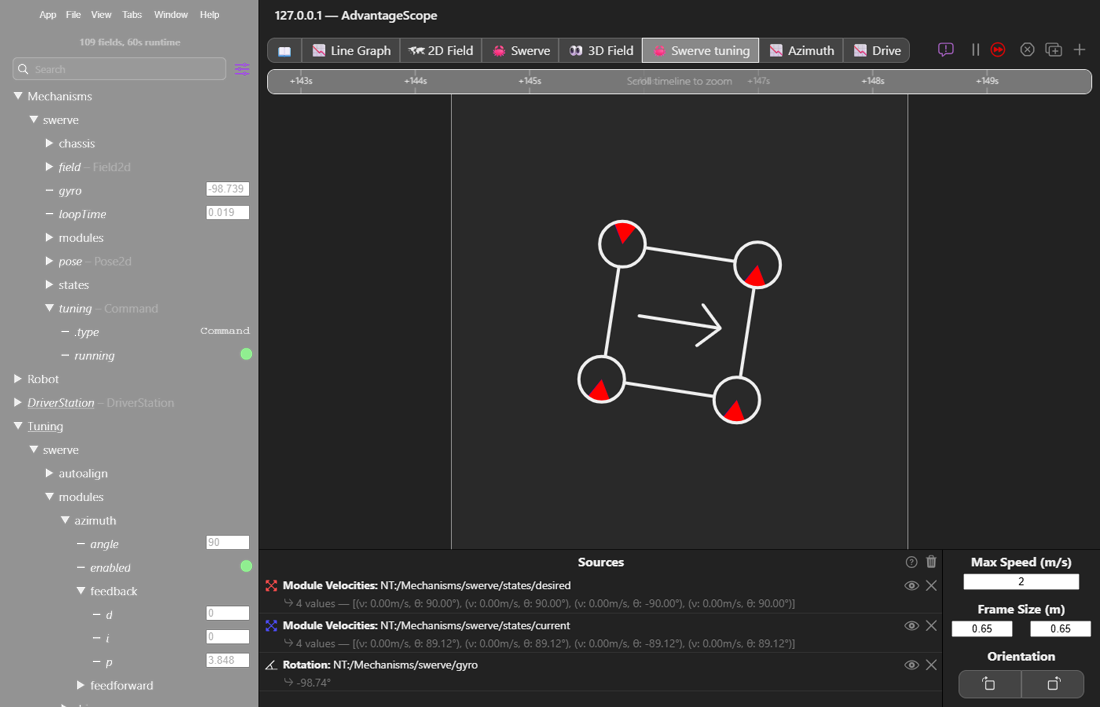
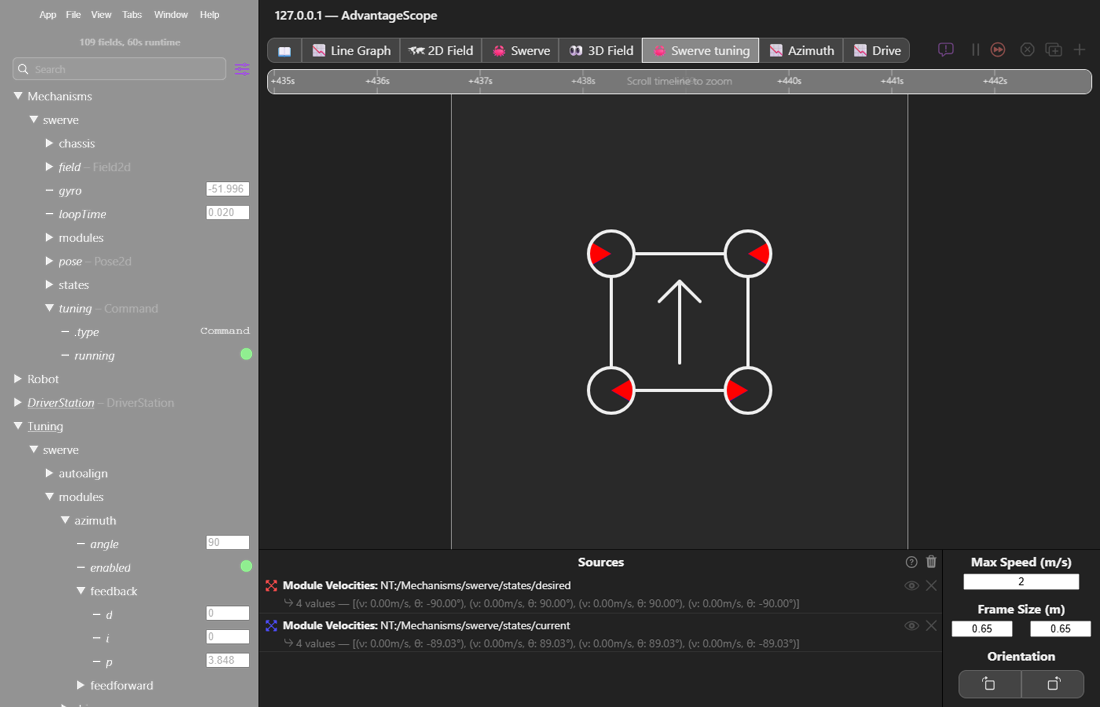
Live tuning screenshots: leave the gyro out of the swerve view so the robot stays upright

diff --git a/tutorial/04-verify-and-calibrate-hardware.md b/tutorial/04-verify-and-calibrate-hardware.md
@@ -127,7 +127,7 @@ With the robot lifted, command pure counterclockwise rotation and watch the modu
 
 You can also run it from the dashboard: with drive tuning on, set `Tuning/swerve/modules/drive/inplace` to `true` and give `modules/drive/velocity` a small positive speed. Every module turns tangent to the robot and it should spin counterclockwise.
 
-<figure><img src="../.gitbook/assets/yagsl-ascope-spin-swerve.png" alt="The AdvantageScope Swerve tab during drive tuning with modules/drive/inplace on: every module points tangent to the robot at plus or minus 45 degrees and drives at 1 meter per second, desired in red and current in blue, so the robot spins counterclockwise in place."><figcaption><p>The spin test from the dashboard: modules/drive/inplace on, every module tangent to the robot.</p></figcaption></figure>
+<figure><img src="../.gitbook/assets/yagsl-ascope-spin-swerve.png" alt="The AdvantageScope Swerve tab during drive tuning with modules/drive/inplace on: every module points tangent to the robot at plus or minus 45 degrees with its arrow pointing counterclockwise around the center, desired in red and current in blue, so the robot spins counterclockwise in place."><figcaption><p>The spin test from the dashboard: modules/drive/inplace on, every module tangent to the robot.</p></figcaption></figure>
 
 [Determine Inversion](../how-to/determine-inversion.md) lists every symptom and its cause.
 {% endstep %}
